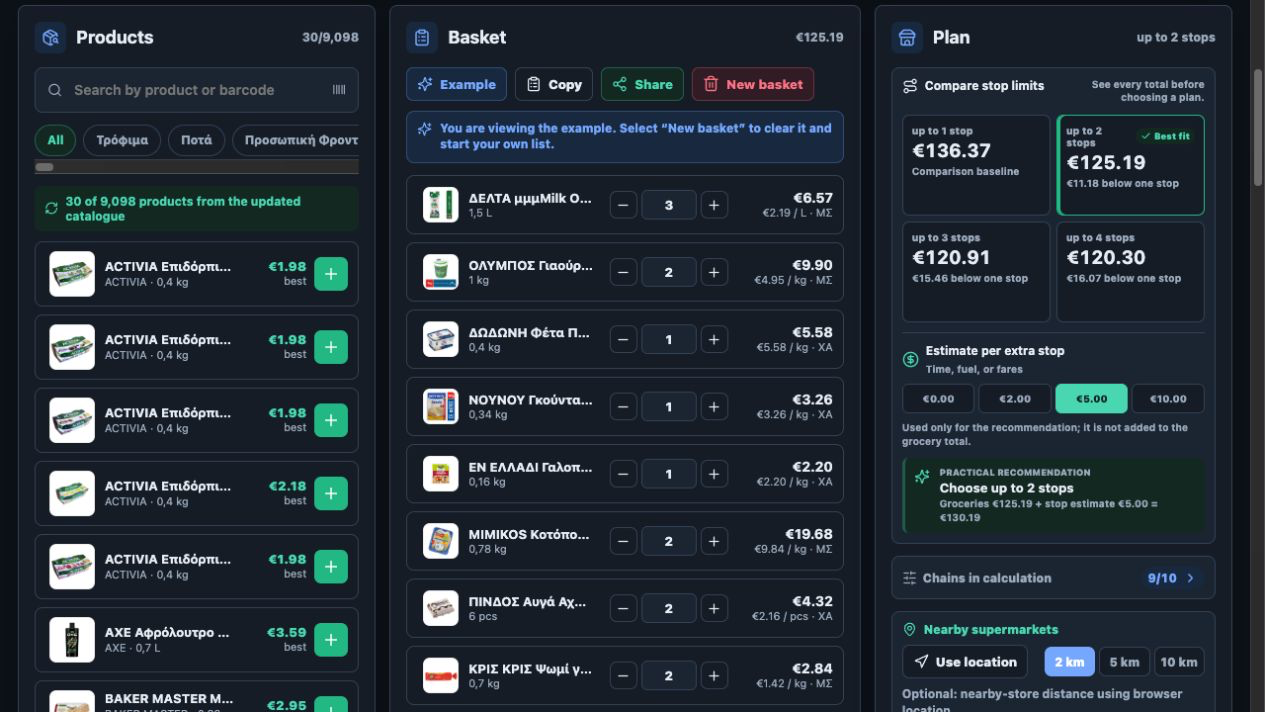
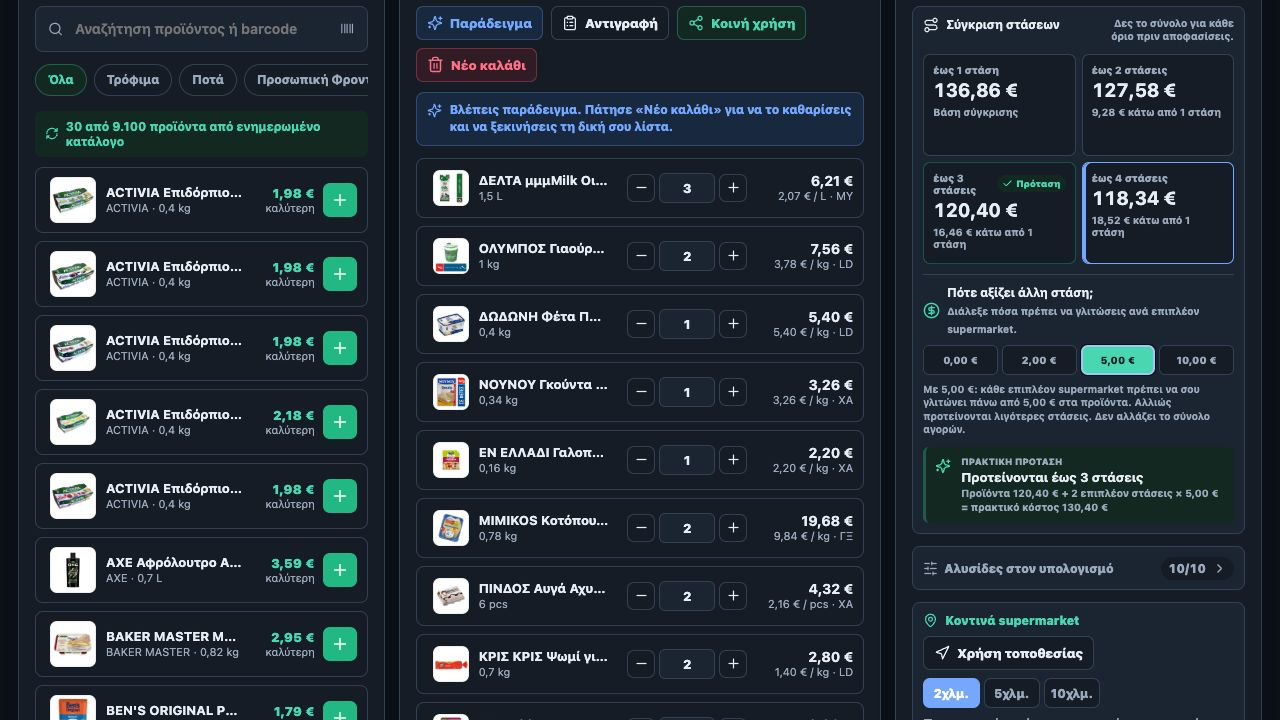
Release v0.6.1 with clearer stop-cost guidance

diff --git a/src/i18n.js b/src/i18n.js
@@ -120,15 +120,20 @@ const messages = {
     sameAsOneStop: "Ίδιο με 1 στάση",
     recommended: "Πρόταση",
     selectStopPlan: ({ stops, total }) => `Επιλογή ${stops}, σύνολο ${total}`,
-    extraStopEstimate: "Εκτίμηση ανά επιπλέον στάση",
-    extraStopEstimateHelp: "Χρόνος, καύσιμα ή εισιτήρια",
-    extraStopCostOptions: "Εκτίμηση κόστους επιπλέον στάσης",
-    extraStopEstimateNote:
-      "Χρησιμοποιείται μόνο για την πρόταση και δεν προστίθεται στο σύνολο αγορών.",
+    extraStopEstimate: "Πότε αξίζει άλλη στάση;",
+    extraStopEstimateHelp:
+      "Διάλεξε πόσα πρέπει να γλιτώσεις ανά επιπλέον supermarket.",
+    extraStopCostOptions: "Ελάχιστη εξοικονόμηση ανά επιπλέον supermarket",
+    extraStopEstimateNote: ({ amount, isFree }) =>
+      isFree
+        ? "Με 0 €: προτείνεται το φθηνότερο πλάνο, ακόμη κι αν χρειάζεται περισσότερες στάσεις. Δεν αλλάζει το σύνολο αγορών."
+        : `Με ${amount}: κάθε επιπλέον supermarket πρέπει να σου γλιτώνει πάνω από ${amount} στα προϊόντα. Αλλιώς προτείνονται λιγότερες στάσεις. Δεν αλλάζει το σύνολο αγορών.`,
     practicalChoice: "Πρακτική πρόταση",
     recommendStopLimit: ({ stops }) => `Προτείνονται ${stops}`,
-    recommendationMath: ({ groceries, extra, effective }) =>
-      `Προϊόντα ${groceries} + εκτίμηση στάσεων ${extra} = ${effective}`,
+    recommendationMath: ({ groceries, extraStops, perStop, effective }) =>
+      extraStops === 0
+        ? `Προϊόντα ${groceries} · χωρίς επιπλέον στάση = ${effective}`
+        : `Προϊόντα ${groceries} + ${extraStops} ${extraStops === 1 ? "επιπλέον στάση" : "επιπλέον στάσεις"} × ${perStop} = πρακτικό κόστος ${effective}`,
     recommendationNeedsBasket: "Φτιάξε καλάθι για να συγκρίνεις τις στάσεις.",
     retailersInCalculation: "Αλυσίδες στον υπολογισμό",
     allRetailers: "Όλες οι αλυσίδες",
@@ -346,15 +351,20 @@ const messages = {
     sameAsOneStop: "Same as one stop",
     recommended: "Best fit",
     selectStopPlan: ({ stops, total }) => `Select ${stops}, total ${total}`,
-    extraStopEstimate: "Estimate per extra stop",
-    extraStopEstimateHelp: "Time, fuel, or fares",
-    extraStopCostOptions: "Estimated extra-stop cost",
-    extraStopEstimateNote:
-      "Used only for the recommendation; it is not added to the grocery total.",
+    extraStopEstimate: "When is another stop worth it?",
+    extraStopEstimateHelp:
+      "Choose the minimum grocery saving needed per extra supermarket.",
+    extraStopCostOptions: "Minimum saving per extra supermarket",
+    extraStopEstimateNote: ({ amount, isFree }) =>
+      isFree
+        ? "At €0: the lowest grocery total is recommended, even when it needs more stops. This never changes the grocery total."
+        : `At ${amount}: each extra supermarket must save you more than ${amount} on groceries. Otherwise, fewer stops are recommended. This never changes the grocery total.`,
     practicalChoice: "Practical recommendation",
     recommendStopLimit: ({ stops }) => `Choose ${stops}`,
-    recommendationMath: ({ groceries, extra, effective }) =>
-      `Groceries ${groceries} + stop estimate ${extra} = ${effective}`,
+    recommendationMath: ({ groceries, extraStops, perStop, effective }) =>
+      extraStops === 0
+        ? `Groceries ${groceries} · no extra stop = ${effective}`
+        : `Groceries ${groceries} + ${extraStops} extra ${extraStops === 1 ? "stop" : "stops"} × ${perStop} = practical cost ${effective}`,
     recommendationNeedsBasket: "Build a basket to compare stop limits.",
     retailersInCalculation: "Chains in calculation",
     allRetailers: "All chains",

diff --git a/src/App.jsx b/src/App.jsx
@@ -1966,7 +1966,12 @@ function StopComparisonControl({
             </button>
           ))}
         </div>
-        <p>{t("extraStopEstimateNote")}</p>
+        <p>
+          {t("extraStopEstimateNote", {
+            amount: money(extraStopCost),
+            isFree: extraStopCost === 0,
+          })}
+        </p>
       </div>
 
       <div className={recommended ? "practical-recommendation" : "practical-recommendation empty"}>
@@ -1983,7 +1988,8 @@ function StopComparisonControl({
               <span>
                 {t("recommendationMath", {
                   groceries: money(recommended.groceryTotal),
-                  extra: money(recommended.estimatedExtraCost),
+                  extraStops: Math.max(0, recommended.actualStops - 1),
+                  perStop: money(extraStopCost),
                   effective: money(recommended.effectiveTotal),
                 })}
               </span>

diff --git a/src/i18n.test.js b/src/i18n.test.js
@@ -17,6 +17,14 @@ test("core interface text and dynamic values are translated", () => {
     translate("en", "catalogResults", { visible: "30", total: "8,551" }),
     "30 of 8,551 products from the updated catalogue",
   );
+  assert.match(
+    translate("el", "extraStopEstimateNote", { amount: "5,00 €", isFree: false }),
+    /κάθε επιπλέον supermarket.*πάνω από 5,00 €.*λιγότερες στάσεις/,
+  );
+  assert.match(
+    translate("en", "extraStopEstimateNote", { amount: "€5.00", isFree: false }),
+    /each extra supermarket.*more than €5.00.*fewer stops/,
+  );
 });
 
 test("language selection controls locale-sensitive formatting", () => {

diff --git a/README.md b/README.md
@@ -6,7 +6,7 @@
 
 **Κώδικας:** [github.com/spirosrap/posokanei-basket-demo](https://github.com/spirosrap/posokanei-basket-demo)
 
-**Τρέχουσα έκδοση:** `v0.6.0`
+**Τρέχουσα έκδοση:** `v0.6.1`
 
 > Πρόκειται για ανεπίσημη εφαρμογή. Δεν συνδέεται επίσημα με το PosoKanei ή με κάποια αλυσίδα supermarket.
 
@@ -30,7 +30,9 @@
 
 Η έκδοση `v0.6.0` εμφανίζει ταυτόχρονα το φθηνότερο πλήρες σύνολο για όριο `1`, `2`, `3` και `4` στάσεων. Κάθε επιλογή δείχνει την πραγματική τιμή των προϊόντων και την οικονομία σε σχέση με μία στάση. Τα όρια σημαίνουν «έως»: αν το ίδιο φθηνότερο πλάνο χρειάζεται λιγότερες αλυσίδες, ο optimizer δεν προσθέτει άσκοπη στάση. Ο χρήστης επιλέγει οποιοδήποτε αποτέλεσμα και το αναλυτικό πλάνο, το καλάθι και η αντιγραφή λίστας ενημερώνονται αμέσως.
 
-Για πιο ρεαλιστική απόφαση, ο χρήστης μπορεί προαιρετικά να εκτιμήσει τον χρόνο, τα καύσιμα ή τα εισιτήρια κάθε επιπλέον στάσης ως `0 €`, `2 €`, `5 €` ή `10 €`. Η «Πρακτική πρόταση» συγκρίνει την τιμή προϊόντων μαζί με αυτή την προσωπική εκτίμηση και επισημαίνει το καταλληλότερο όριο. Η εκτίμηση δεν αλλάζει ποτέ το σύνολο αγορών, δεν αποτελεί τιμή του PosoKanei και δεν αποστέλλεται σε κοινόχρηστους συνδέσμους. Η εκτίμηση και το επιλεγμένο όριο στάσεων αποθηκεύονται μόνο τοπικά στον browser.
+Για πιο ρεαλιστική απόφαση, ο χρήστης μπορεί να επιλέξει πόση εξοικονόμηση χρειάζεται για να αξίζει κάθε επιπλέον supermarket: `0 €`, `2 €`, `5 €` ή `10 €`. Για παράδειγμα, με επιλογή `5 €`, μία ακόμη στάση προτείνεται μόνο αν η χαμηλότερη τιμή των προϊόντων καλύπτει πάνω από `5 €` επιπλέον χρόνου, καυσίμων ή εισιτηρίων. Η «Πρακτική πρόταση» δείχνει καθαρά τον αριθμό επιπλέον στάσεων και τον σχετικό υπολογισμό. Η εκτίμηση δεν αλλάζει ποτέ το σύνολο αγορών, δεν αποτελεί τιμή του PosoKanei και δεν αποστέλλεται σε κοινόχρηστους συνδέσμους. Η εκτίμηση και το επιλεγμένο όριο στάσεων αποθηκεύονται μόνο τοπικά στον browser.
+
+Η έκδοση `v0.6.1` μετονομάζει και επεξηγεί αυτό το εργαλείο ως «Πότε αξίζει άλλη στάση;», ώστε η χρησιμότητά του να γίνεται άμεσα κατανοητή πριν ο χρήστης επιλέξει ποσό.
 
 ![Σύγκριση τεσσάρων ορίων στάσεων και πρακτική πρόταση](screenshots/stop-comparison.png)
 
@@ -92,7 +94,7 @@
 
 **Source code:** [github.com/spirosrap/posokanei-basket-demo](https://github.com/spirosrap/posokanei-basket-demo)
 
-**Current version:** `v0.6.0`
+**Current version:** `v0.6.1`
 
 > This is an unofficial app. It is not affiliated with PosoKanei or any supermarket chain.
 
@@ -138,7 +140,9 @@ The app is inspired by [posokanei.gov.gr](https://posokanei.gov.gr/), which comp
 
 Version `v0.6.0` shows the cheapest complete grocery total for `1`, `2`, `3`, and `4` stop limits together. Each selectable option includes its real product total and savings against one stop. These are “up to” limits: when the same cheapest plan uses fewer chains, the optimizer does not add an unnecessary visit. Selecting an option immediately updates the detailed route, basket assignment, and copied shopping plan.
 
-Users can optionally value the time, fuel, or fares for each additional stop at `€0`, `€2`, `€5`, or `€10`. The practical recommendation minimizes `grocery total + estimated extra-stop cost`, while the basket itself continues to show only actual grocery prices. This personal estimate is stored locally, is not PosoKanei price data, and is deliberately excluded from shared basket links. The chosen stop limit is now persistent as well.
+Users can choose how much grocery saving is needed to make each extra supermarket worthwhile: `€0`, `€2`, `€5`, or `€10`. For example, at `€5`, another stop is recommended only when its lower grocery prices compensate for more than `€5` of extra time, fuel, or fares. The practical recommendation now states the number of additional stops and shows the calculation explicitly, while the basket continues to display only actual grocery prices. This personal estimate is stored locally, is not PosoKanei price data, and is deliberately excluded from shared basket links. The chosen stop limit is persistent as well.
+
+Version `v0.6.1` renames and explains this control as “When is another stop worth it?” so its purpose is clear before the user chooses an amount.
 
 ![Four-stop comparison and practical recommendation](screenshots/stop-comparison.png)
 
